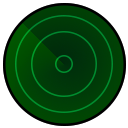
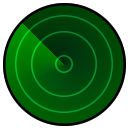
rocket img, bug fxs

Changed region(s): [[0.0312, 0.1875, 0.5, 0.9062]]

diff --git a/src/Game.java b/src/Game.java
@@ -14,6 +14,7 @@ import java.awt.event.MouseMotionListener;
 import java.awt.geom.Ellipse2D;
 import java.io.File;
 import java.util.ArrayList;
+import java.util.HashMap;
 import java.util.Random;
 import java.awt.event.KeyEvent;
 import java.awt.event.KeyListener;
@@ -39,12 +40,12 @@ public class Game extends JPanel implements MouseListener, MouseMotionListener, 
     // animation variables
     private int[][] fadeProg;
     private int fogAnimProg = 0, fogAnimLen = 200;
-    private int radarAnimProg = 0, radarAnimLen = 30, radarAnimIters = 3;
+    private int radarAnimProg = 0, radarAnimLen = 30, radarAnimIters = 3; // the radar beam itself
     private int[] radarAnimStartLoc;
     private int radarRotAnimProg = 0, radarRotAnimLen = 360;
 
     // assets
-    private Image fogImage, flagImage, radarImage;
+    private Image fogImage, flagImage, radarImage, bombImage, rocketImage;
     private Color[] hintColors = {
             Color.BLACK, new Color(0, 0, 255), new Color(0, 128, 0),
             new Color(255, 0, 0), new Color(0, 0, 128), new Color(128, 0, 0),
@@ -66,6 +67,8 @@ public class Game extends JPanel implements MouseListener, MouseMotionListener, 
 
         if (radarAnimProg > 0 && radarAnimProg < radarAnimLen * radarAnimIters) {
             radarAnimProg++;
+        
+            
         } else {
             radarAnimProg = 0;
         }
@@ -96,6 +99,8 @@ public class Game extends JPanel implements MouseListener, MouseMotionListener, 
         fogImage = new ImageIcon(Game.class.getResource("fog.png")).getImage();
         flagImage = new ImageIcon(Game.class.getResource("flag.png")).getImage();
         radarImage = new ImageIcon(Game.class.getResource("radar.png")).getImage();
+        bombImage = new ImageIcon(Game.class.getResource("bomb.png")).getImage();
+        rocketImage = new ImageIcon(Game.class.getResource("rocket.png")).getImage();
 
         fogProgressTimer.start();
     }
@@ -275,8 +280,7 @@ public class Game extends JPanel implements MouseListener, MouseMotionListener, 
                     // draw the content of the tile (bombs, powerups etc)
                     int tile = boardManager.getTile(x, y);
                     if (tile == boardManager.BOARD_BOMB) {
-                        g2.setColor(Color.RED);
-                        g2.fillOval(fullX, boardY + gap + x * (tileH + gap), tileW, tileH);
+                        g2.drawImage(bombImage, fullX, boardY + gap + x * (tileH + gap), tileW, tileH, null);
                     } else if (tile == boardManager.BOARD_RADAR) {
 
                         int tileCenterX = fullX + tileW / 2;
@@ -287,17 +291,16 @@ public class Game extends JPanel implements MouseListener, MouseMotionListener, 
                         g2.rotate(-Math.toRadians(startRot + radarRotAnimProg), tileCenterX, tileCenterY);
 
                     } else if (tile == boardManager.BOARD_ROCKET) {
-                        g2.setColor(Color.BLUE);
-                        g2.fillOval(fullX, boardY + gap + x * (tileH + gap), tileW, tileH);
+                        int off = 10;
+                        g2.drawImage(rocketImage, fullX - off, boardY + gap + x * (tileH + gap), tileW + off * 2, tileH, null);
                     }
 
                     // draw the number
                     int bombhint = boardManager.getHint(x, y, boardManager.BOARD_BOMB);
                     if (bombhint > 0) {
                         g2.setColor(
-                                (tile == boardManager.BOARD_RADAR || tile == boardManager.BOARD_ROCKET) ? Color.WHITE
-                                        : hintColors[bombhint]);
-                        g2.drawString("" + bombhint, fullX + tileW / 4,
+                                (tile == boardManager.BOARD_RADAR || tile == boardManager.BOARD_ROCKET) ? Color.WHITE : hintColors[bombhint-1]);
+                        g2.drawString("" + bombhint, fullX + tileW / 3,
                                 boardY + gap + x * (tileH + gap) + ((float) tileH / 1.5f));
                     }
                 }
@@ -321,19 +324,11 @@ public class Game extends JPanel implements MouseListener, MouseMotionListener, 
                 // draw the radar animation callout
                 if (boardManager.flags[x][y] == 0 && radarAnimStartLoc != null
                         && boardManager.getTile(x, y) == boardManager.BOARD_BOMB) {
-                    // get dist from this tile to the radar origin
-                    int screenX = fullX + tileW / 2;
-                    int screenY = boardY + gap + x * (tileH + gap) + tileH / 2;
-                    double dx = Math.pow(screenX - radarAnimStartLoc[0], 2);
-                    double dy = Math.pow(screenY - radarAnimStartLoc[1], 2);
-                    double distToRing = Math.sqrt(dx + dy) - getRadius(radarAnimProg);
-                    
-                    // if within distance, draw the ring
-                    if (distToRing < 10) {
-                        // if ring is very close, draw solid
-                        int alpha = (int) (255 * Math.min(1,Math.max(0, (1 - distToRing / 10))));
-                        g2.setColor(new Color(255, 0, 0, alpha));
-                        g2.fillOval(fullX, boardY + gap + x * (tileH + gap), tileW, tileH);
+                    double radius = getRadius(radarAnimProg);
+                    boolean closeToRing = Math.abs(fullX + tileW / 2 - radarAnimStartLoc[0]) < radius
+                            && Math.abs(boardY + gap + x * (tileH + gap) + tileH / 2 - radarAnimStartLoc[1]) < radius;
+                    if(closeToRing) {
+                        g2.drawImage(bombImage, fullX, boardY + gap + x * (tileH + gap), tileW, tileH, null);
                     }
                 }
 

diff --git a/src/BoardManager.java b/src/BoardManager.java
@@ -38,6 +38,12 @@ public class BoardManager {
             throw new IllegalArgumentException("val is inval(id)");
     }
 
+    public boolean opensCave(int x, int y, int[][] boardb) {
+        ArrayList<int[]> cave = DFS.cave(bombHints, boardb, x, y, 0);
+        System.out.println("Cave size: " + cave.size());
+        return cave.size() >= 5;
+    }
+
     public int stepOnTile(int x, int y) {
 
         // if first click, make this the first click
@@ -66,7 +72,7 @@ public class BoardManager {
             board[x][y] = BOARD_EMPTY;
 
             for(int i = x; i < board.length; i++) {
-                if (board[i][y] == BOARD_BOMB) {
+                if (board[i][y] == BOARD_BOMB && flags[i][y] == 0) {
                     flags[i][y] = 1;
                     break;
                 } else {
@@ -108,7 +114,7 @@ public class BoardManager {
         System.out.println("flagging tile " + x + ", " + y);
 
         // make sure its not discovered
-        if (discovered[x][y])
+        if (!clickedYet || discovered[x][y])
             return;
 
         // flag the tile
@@ -116,7 +122,7 @@ public class BoardManager {
             flags[x][y] = 1;
             flagCount++;
         } else if (flags[x][y] == 1) {
-            flags[x][y] = 2;
+            flags[x][y] = 0;
             flagCount--;
         } else if (flags[x][y] == 2) {
             flags[x][y] = 0;
@@ -143,22 +149,37 @@ public class BoardManager {
 
     public void randomFill(int[][] board, int count, int val, int[] dontFill) {
         for (int i = 0; i < count; i++) { // for each time to spawn a val
-            int x = 0, y = 0;
-            boolean validPlacementSpot = true;
-            do {
-                x = (int) (Math.random() * board.length);
-                y = (int) (Math.random() * board[0].length);
-                boolean isOnDontFill = dontFill != null && dontFill[0] == x && dontFill[1] == y;
-                boolean isOnEmpty = board[x][y] == BOARD_EMPTY;
+            int x = (int) (Math.random() * board.length);
+            int y = (int) (Math.random() * board[0].length);
 
-                // if not on dontFill and on empty, found a good one
-                if (!isOnDontFill && isOnEmpty)
-                    validPlacementSpot = true;
-                else
-                    validPlacementSpot = false;
-            } while (board[x][y] == val || !validPlacementSpot);
+            // if on top of dontFill, try again
+            if (dontFill != null && x == dontFill[0] && y == dontFill[1]) {
+                i--;
+                continue;
+            }
 
+            // if on top of another val, try again
+            if (board[x][y] == val) {
+                i--;
+                continue;
+            }
+
+            // get distance to dontfill
+            int distLim = 3;
+            int dist = distLim + 1;
+            if (dontFill != null) {
+                dist = Math.abs(x - dontFill[0]) + Math.abs(y - dontFill[1]);
+            }
+
+            // if too close to dontFill, try again
+            if (dist < distLim) {
+                i--;
+                continue;
+            }
+
+            // set the tile
             board[x][y] = val;
+
         }
     }
 
@@ -178,7 +199,6 @@ public class BoardManager {
         randomFill(board, 2, BOARD_ROCKET, null);
 
         bombHints = createHints(board, BOARD_BOMB);
-        powerHints = createHints(board, BOARD_RADAR);
     }
     
     public BoardManager(int w, int h, int bombCount, int radarCount, int rocketCount) {
